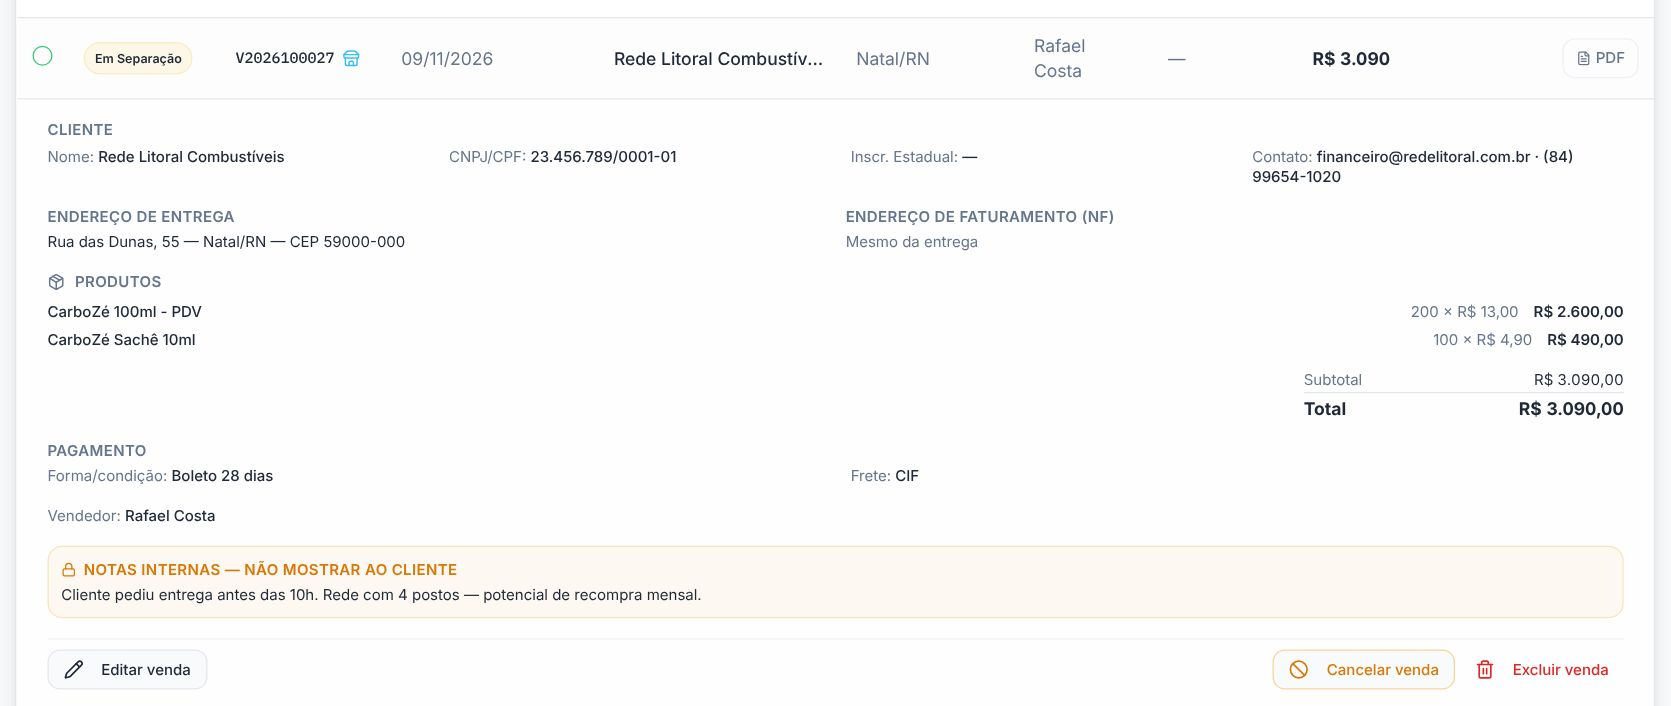
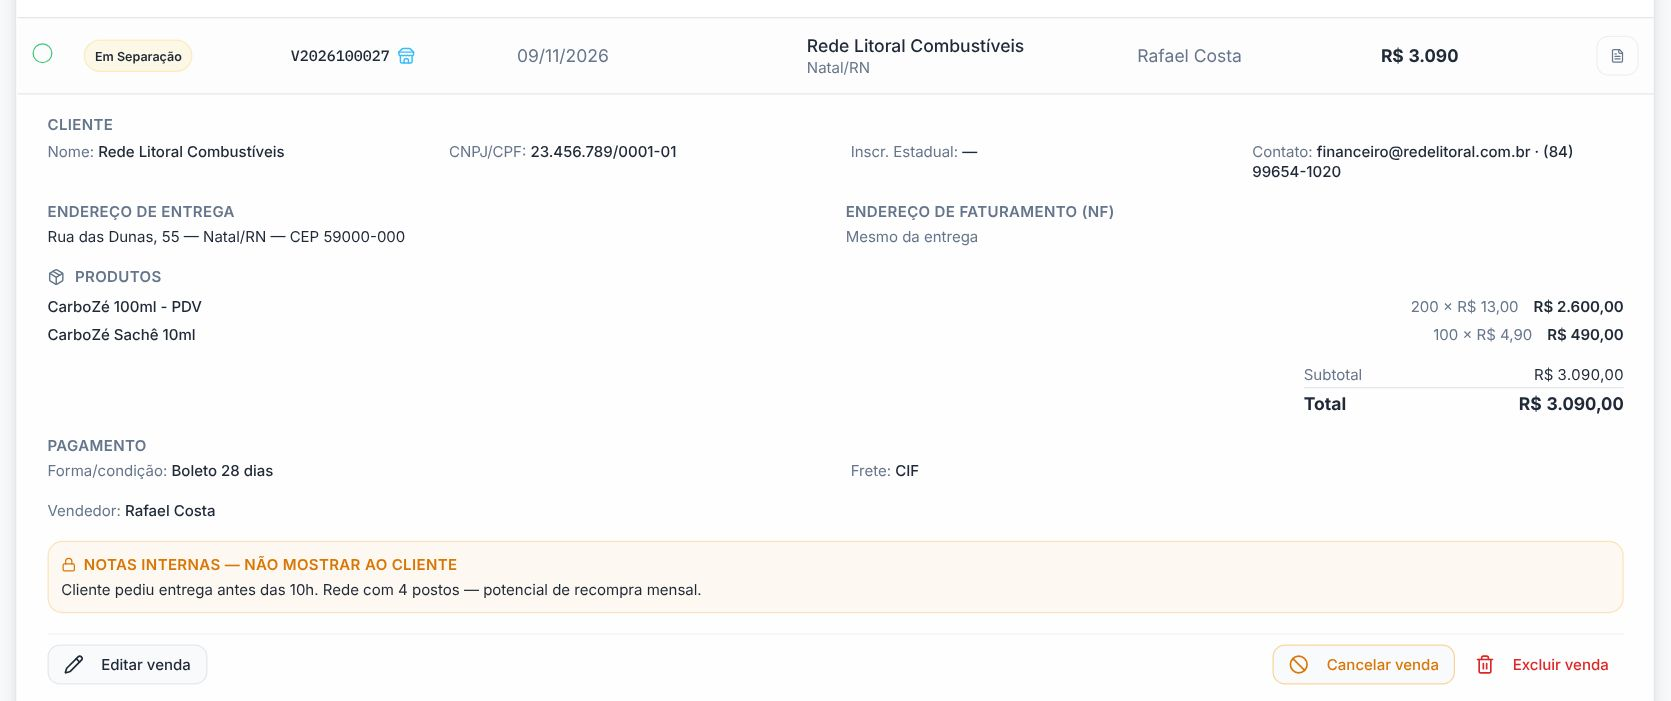
Documentação do Sales: prints no layout do notebook
Claude-Session: https://claude.ai/code/session_014dECjKfnWPqtYYc6bX6aZY

diff --git a/apps/crm/src/docs/marcadores.ts b/apps/crm/src/docs/marcadores.ts
@@ -312,30 +312,30 @@ export const MARCADORES: Record<string, Record<number, Caixa>> = {
     1: { x: 78.13, y: 9, w: 20.38, h: 4 },
     2: { x: 16.5, y: 15.22, w: 82, h: 11.33 },
     3: { x: 16.5, y: 42.11, w: 82, h: 4.44 },
-    4: { x: 16.63, y: 48.89, w: 10.06, h: 4.5 },
+    4: { x: 16.63, y: 48.89, w: 13.21, h: 4.5 },
     5: { x: 16.5, y: 32.33, w: 82, h: 2.89 },
-    6: { x: 88.97, y: 67.44, w: 8.71, h: 3.56 },
-    7: { x: 87.65, y: 54.78, w: 5.83, h: 3.56 },
-    8: { x: 16.63, y: 59.72, w: 81.81, h: 6.33 },
+    6: { x: 93.06, y: 68.56, w: 4.63, h: 3.56 },
+    7: { x: 93.06, y: 55, w: 2.13, h: 3.56 },
+    8: { x: 16.63, y: 60.17, w: 81.81, h: 6.78 },
   },
   "vendas-detalhe": {
-    1: { x: 2.84, y: 17.16, w: 94.32, h: 10.59 },
-    2: { x: 2.84, y: 30.88, w: 46.56, h: 7.06 },
-    3: { x: 2.84, y: 41.08, w: 5.24, h: 2.94 },
-    4: { x: 2.84, y: 47.35, w: 94.32, h: 3.14 },
+    1: { x: 2.84, y: 17.8, w: 94.32, h: 10.51 },
+    2: { x: 2.84, y: 31.42, w: 46.56, h: 7 },
+    3: { x: 2.84, y: 41.54, w: 5.24, h: 2.92 },
+    4: { x: 2.84, y: 47.76, w: 94.32, h: 3.11 },
   },
   "vendas-gestor": {
-    1: { x: 84.75, y: 37.9, w: 13.75, h: 4 },
-    2: { x: 17.41, y: 45.1, w: 1, h: 1.6 },
-    3: { x: 33.4, y: 91.8, w: 33.19, h: 5.8 },
-    4: { x: 66.38, y: 43.9, w: 7.2, h: 4.45 },
-    5: { x: 73.57, y: 43.9, w: 6.76, h: 4.45 },
+    1: { x: 85.33, y: 36.4, w: 11.96, h: 4 },
+    2: { x: 16.55, y: 43.6, w: 0.87, h: 1.6 },
+    3: { x: 35.57, y: 91.8, w: 28.86, h: 5.8 },
+    4: { x: 68.93, y: 42.4, w: 7.75, h: 4.45 },
+    5: { x: 76.68, y: 42.4, w: 7.28, h: 4.45 },
   },
   "vendas-gestor-detalhe": {
-    1: { x: 2.84, y: 91.87, w: 9.55, h: 5.66 },
-    2: { x: 76.18, y: 91.87, w: 10.89, h: 5.66 },
-    3: { x: 87.37, y: 91.87, w: 9.79, h: 5.66 },
-    4: { x: 3.66, y: 79.13, w: 92.67, h: 2.83 },
+    1: { x: 2.84, y: 91.81, w: 9.55, h: 5.7 },
+    2: { x: 76.18, y: 91.81, w: 10.89, h: 5.7 },
+    3: { x: 87.37, y: 91.81, w: 9.79, h: 5.7 },
+    4: { x: 3.66, y: 78.98, w: 92.67, h: 2.85 },
   },
   "vender-endereco": {
     1: { x: 6.28, y: 21.38, w: 28.23, h: 6.43 },

diff --git a/apps/crm/src/docs/secoes/base.ts b/apps/crm/src/docs/secoes/base.ts
@@ -242,8 +242,8 @@ export const SECOES_BASE: Secao[] = [
           { n: 3, titulo: "Buscar", texto: "Procura pelo nome do cliente, cidade, CNPJ/CPF, IE, telefone, CEP, e-mail ou número do pedido, em todo o histórico (ignora o período)." },
           { n: 4, titulo: "Status", texto: "Orçamento, Cancelado ou a etapa do pedido (Nova Venda, Em Separação, Em Transporte, Entregue…)." },
           { n: 5, titulo: "Filtros", texto: "“Ocultar pedidos Bling” esconde os pedidos importados do Bling (o número ao lado diz quantos e quanto somam — é o que explica um total diferente de outra tela). Unidade de negócio: revenda, consumo, on-line ou sem classificação. Tipo: produto (CarboZé), serviço (CarboVAPT) ou misto." },
-          { n: 6, titulo: "Editar / Converter", texto: "Em orçamentos: editar, converter em venda ou baixar o PDF." },
-          { n: 7, titulo: "Baixar NF", texto: "Abre a nota fiscal (PDF, ou XML se o PDF ainda não chegou). “PDF” baixa a segunda via do pedido." },
+          { n: 6, titulo: "Ações (orçamento)", texto: "Em orçamentos: editar, converter em venda ou baixar o PDF. Em tela grande o botão se chama “Editar / Converter”." },
+          { n: 7, titulo: "Baixar NF", texto: "O botão verde abre a nota fiscal (PDF, ou XML se o PDF ainda não chegou); o cinza baixa a segunda via do pedido em PDF. No notebook eles aparecem só com o ícone — passe o mouse para ver o nome." },
           { n: 8, titulo: "Linha", texto: "Clique para abrir os detalhes da venda." },
         ],
       },
